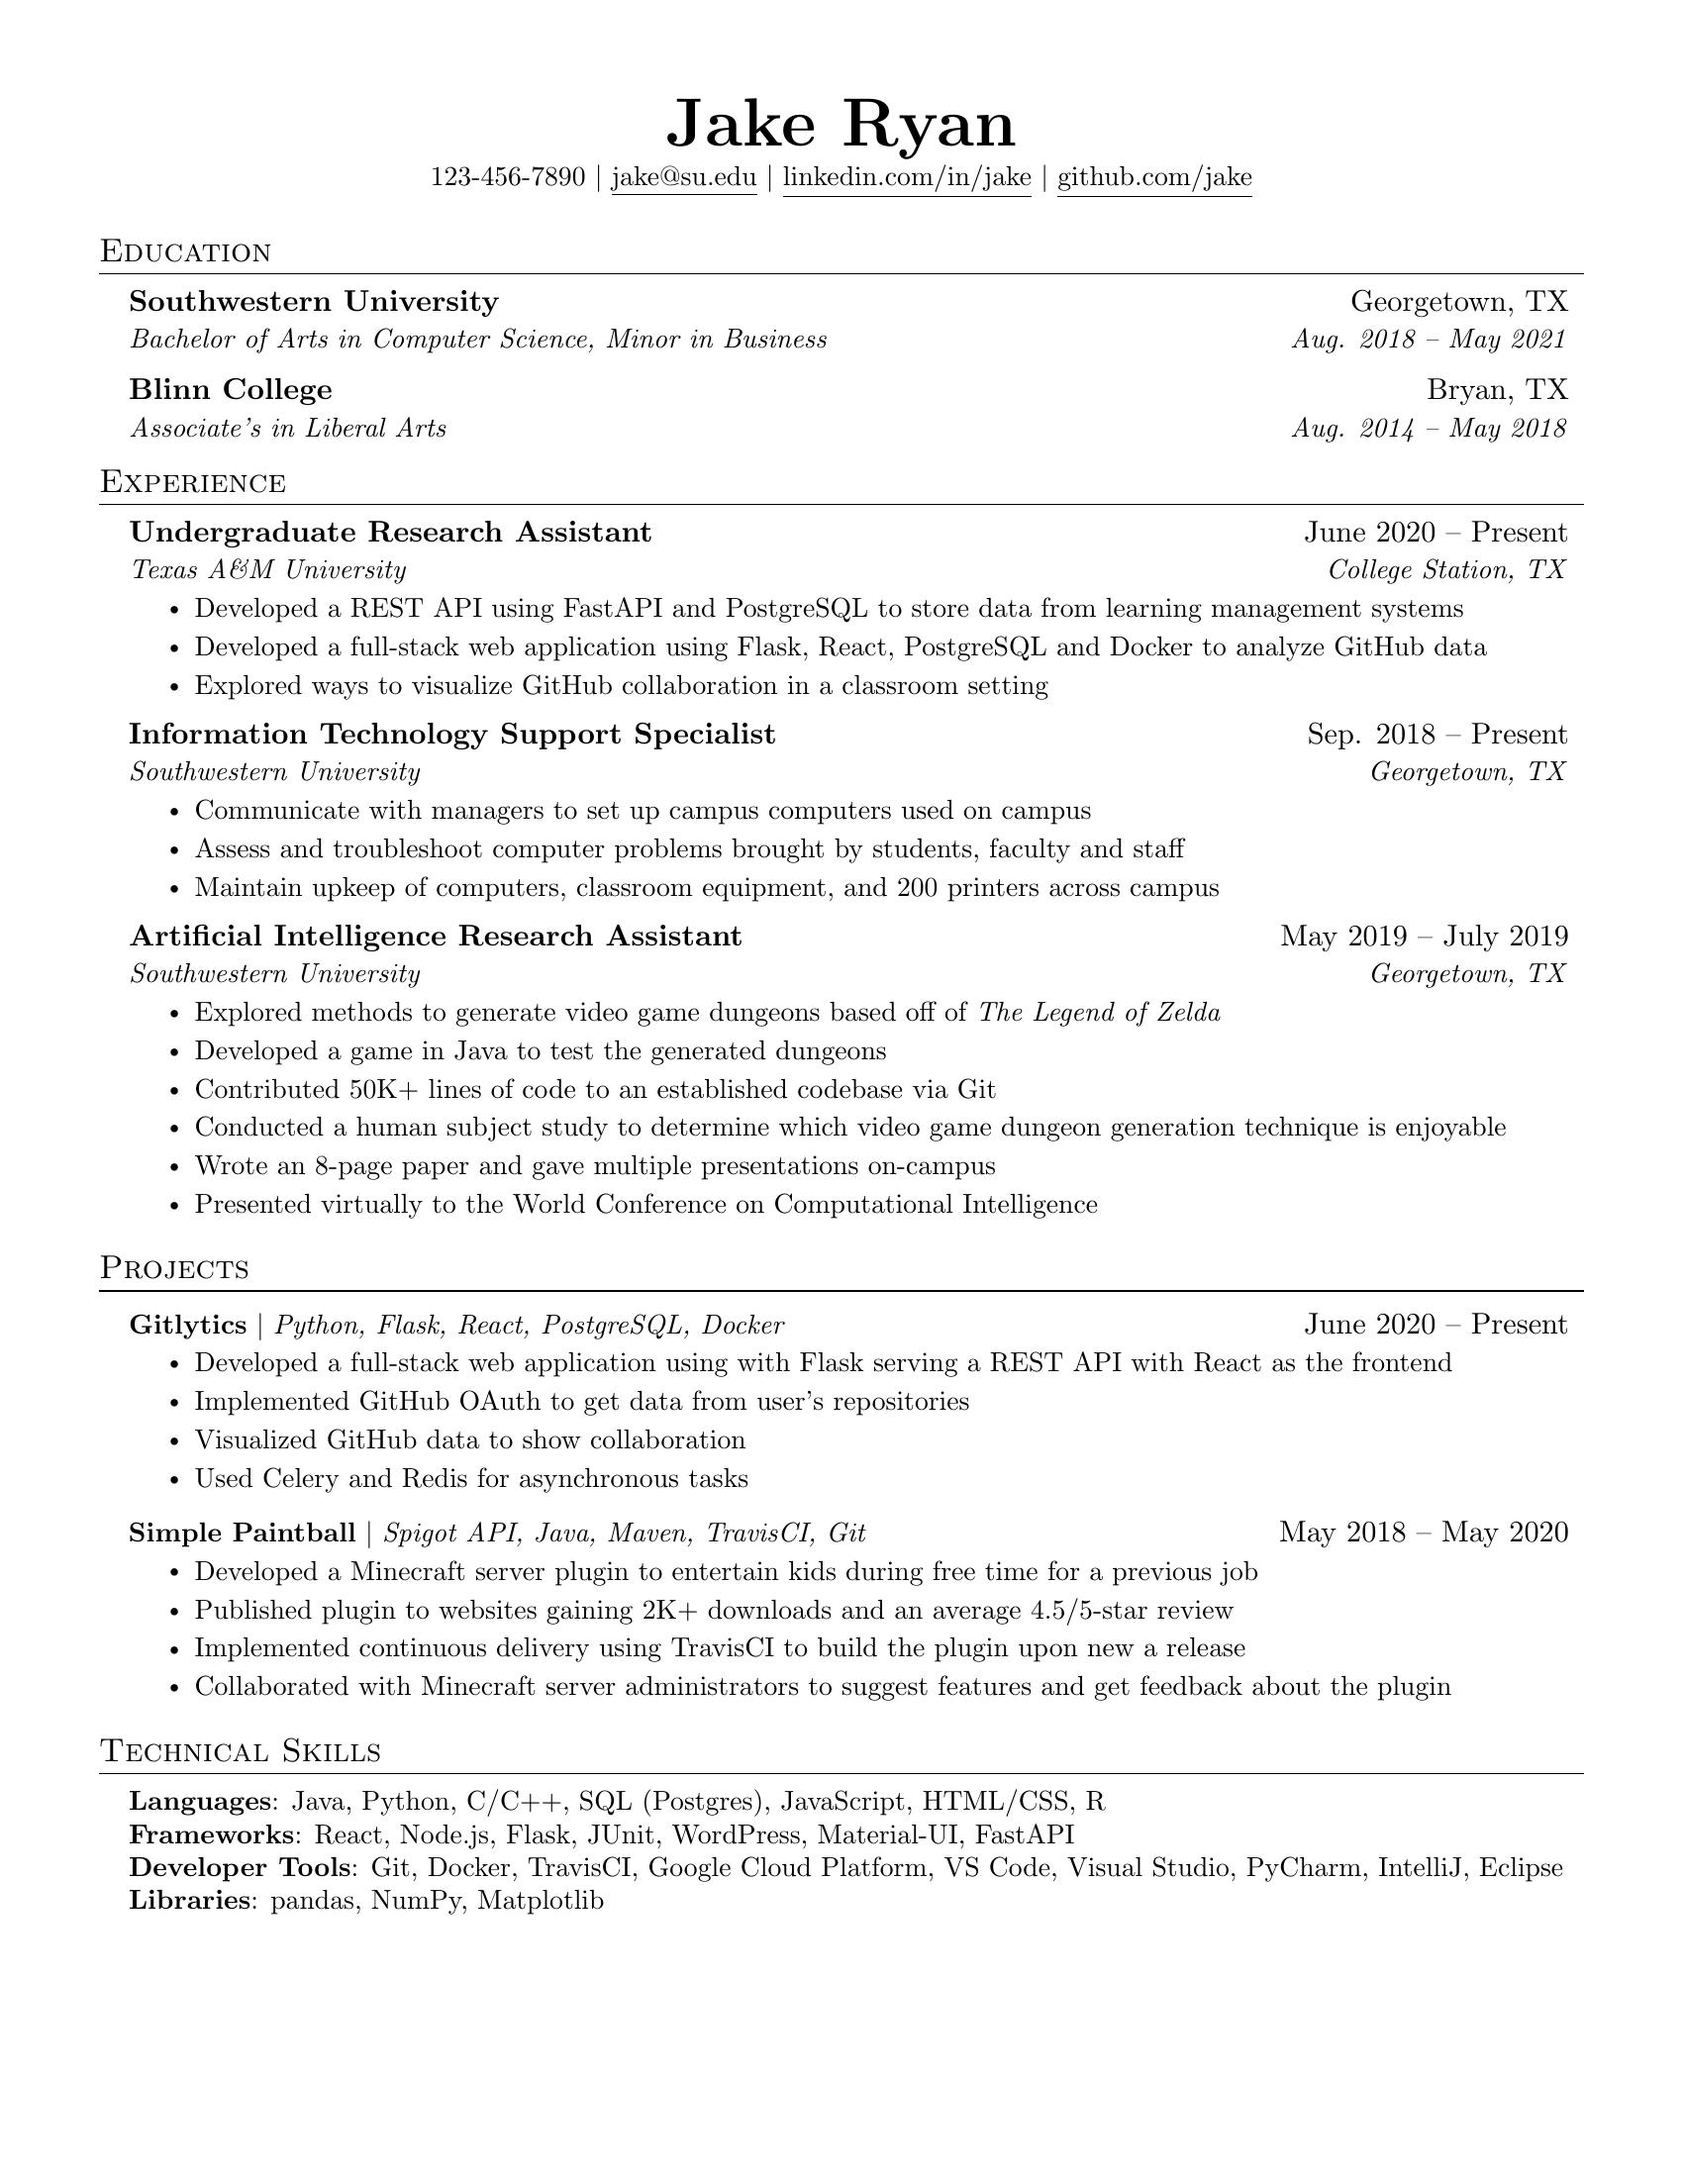
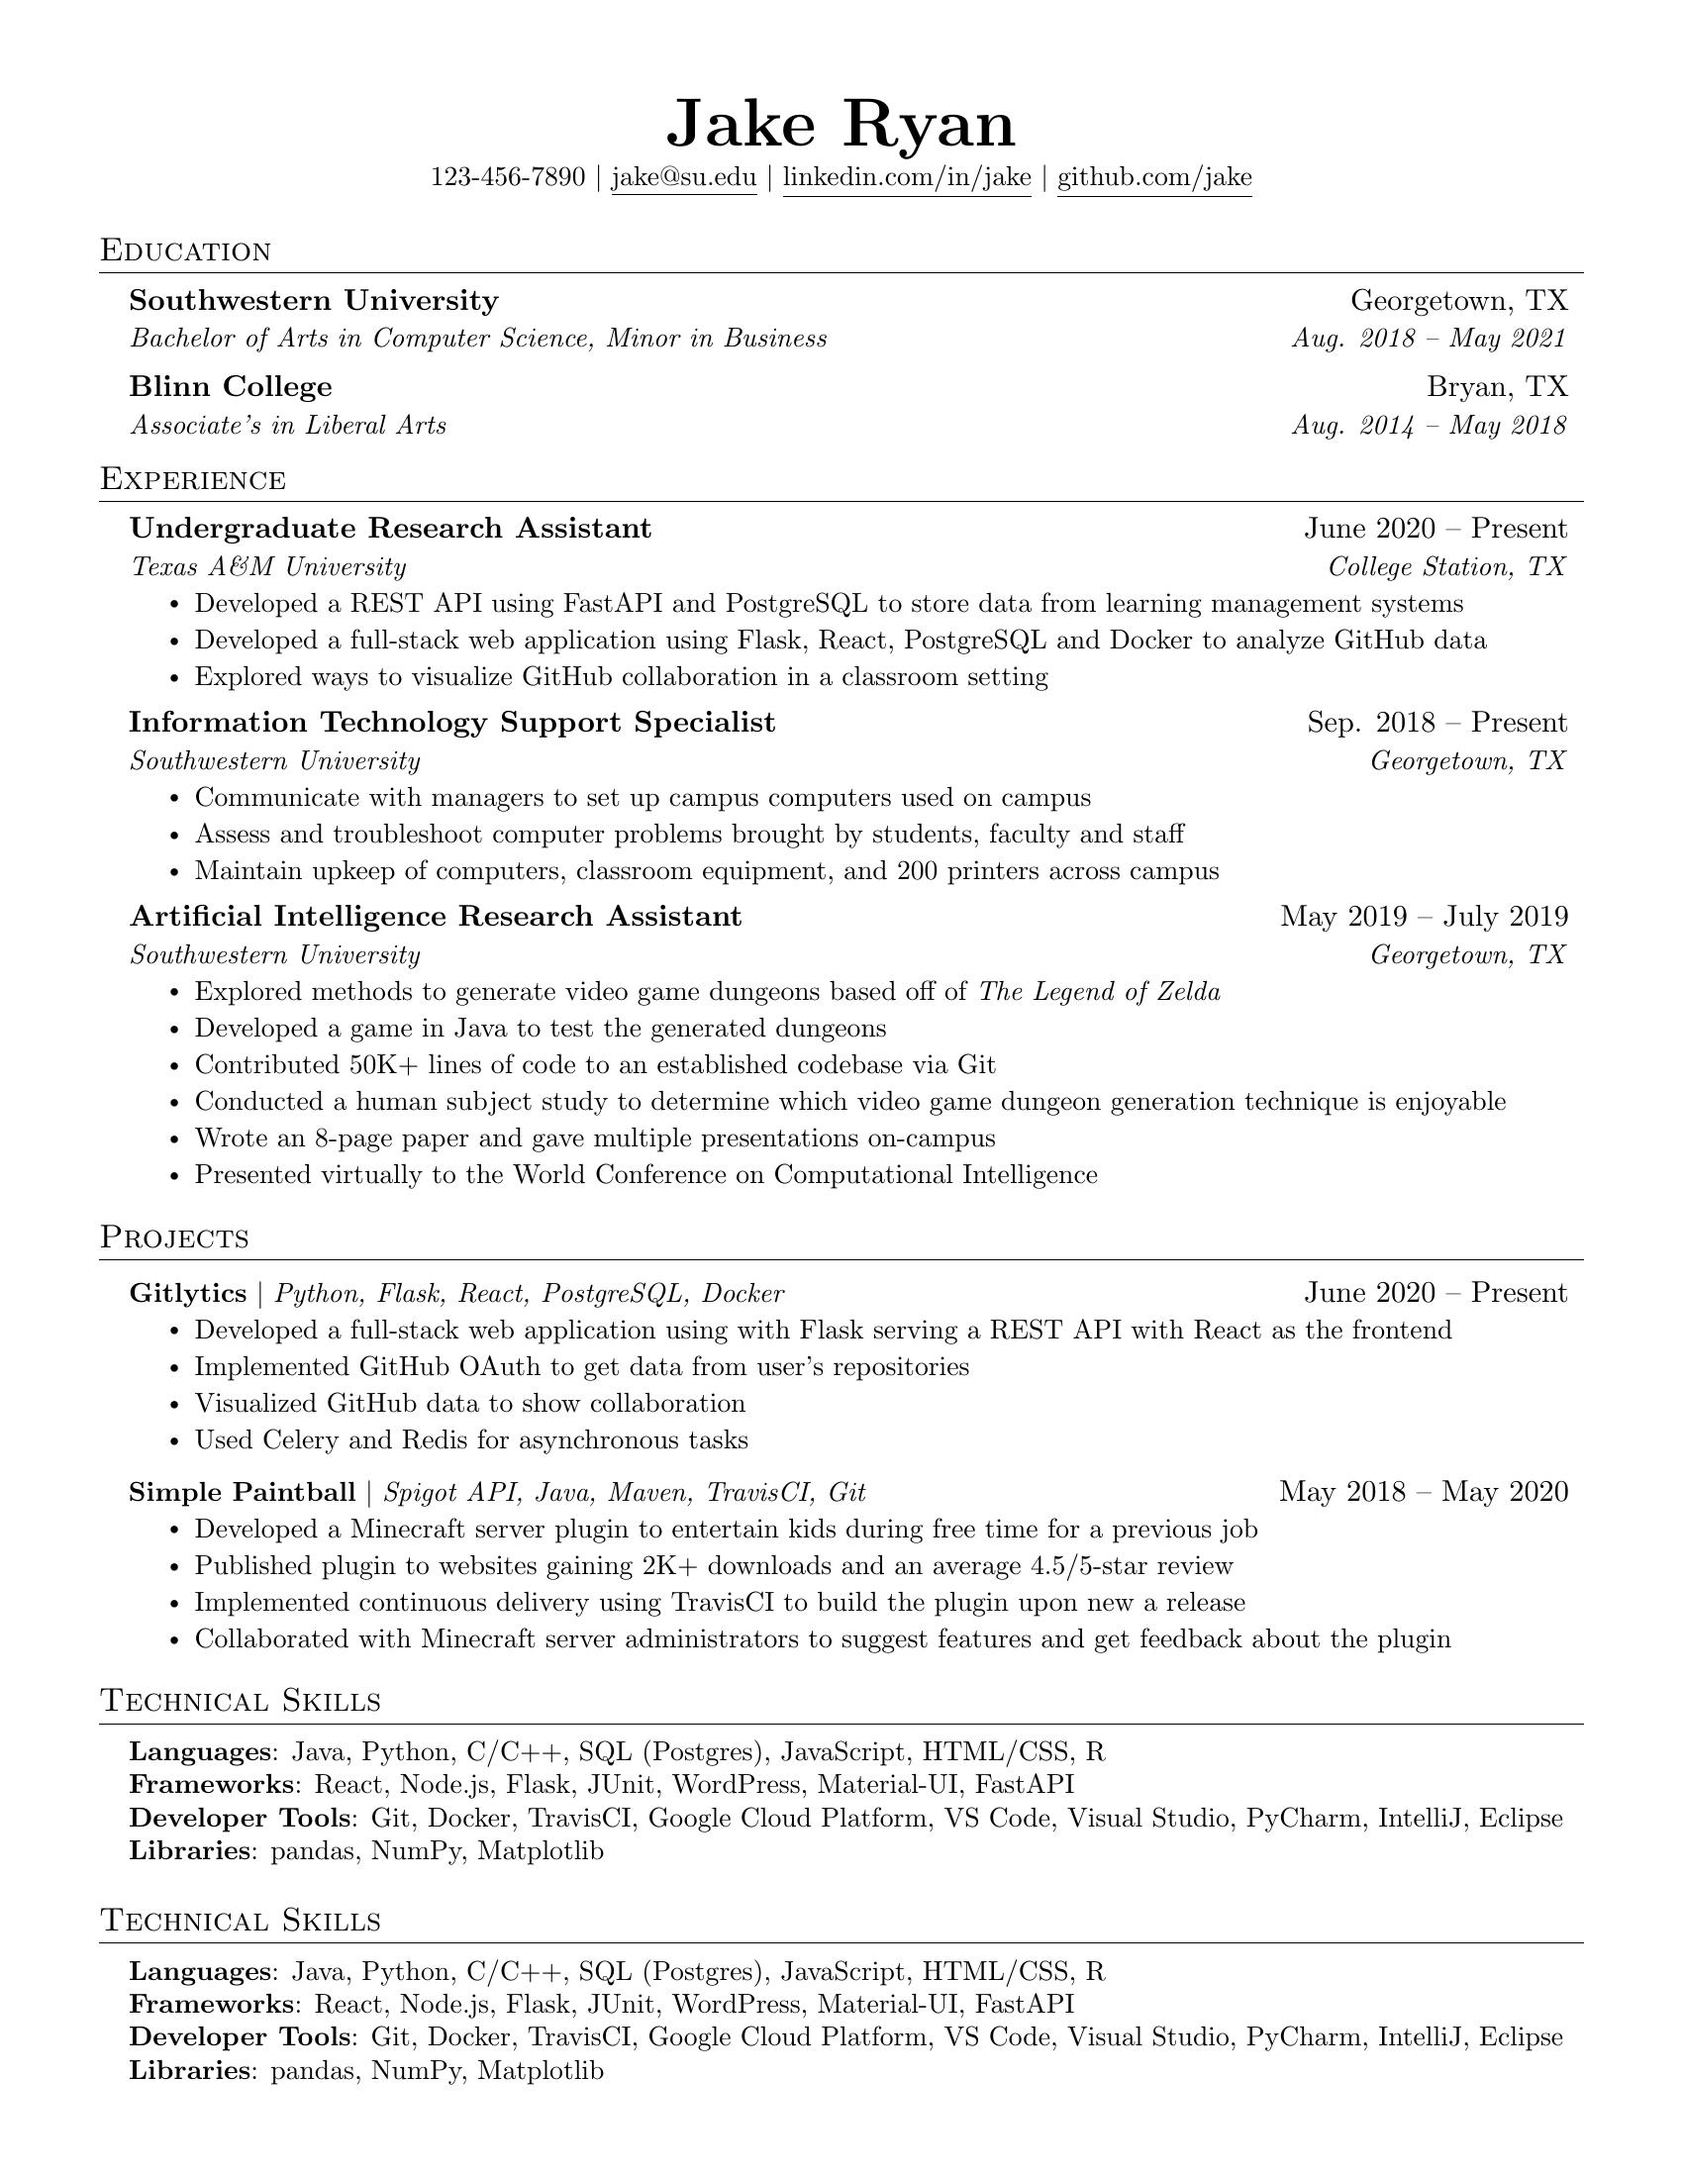
testing multiple pages

diff --git a/main.tex b/main.tex
@@ -212,6 +212,105 @@
      \textbf{Libraries}{: pandas, NumPy, Matplotlib}
     }}
  \end{itemize}
+%
+%-----------PROGRAMMING SKILLS-----------
+\section{Technical Skills}
+ \begin{itemize}[leftmargin=0.15in, label={}]
+    \small{\item{
+     \textbf{Languages}{: Java, Python, C/C++, SQL (Postgres), JavaScript, HTML/CSS, R} \\
+     \textbf{Frameworks}{: React, Node.js, Flask, JUnit, WordPress, Material-UI, FastAPI} \\
+     \textbf{Developer Tools}{: Git, Docker, TravisCI, Google Cloud Platform, VS Code, Visual Studio, PyCharm, IntelliJ, Eclipse} \\
+     \textbf{Libraries}{: pandas, NumPy, Matplotlib}
+    }}
+ \end{itemize}%
+%-----------PROGRAMMING SKILLS-----------
+\section{Technical Skills}
+ \begin{itemize}[leftmargin=0.15in, label={}]
+    \small{\item{
+     \textbf{Languages}{: Java, Python, C/C++, SQL (Postgres), JavaScript, HTML/CSS, R} \\
+     \textbf{Frameworks}{: React, Node.js, Flask, JUnit, WordPress, Material-UI, FastAPI} \\
+     \textbf{Developer Tools}{: Git, Docker, TravisCI, Google Cloud Platform, VS Code, Visual Studio, PyCharm, IntelliJ, Eclipse} \\
+     \textbf{Libraries}{: pandas, NumPy, Matplotlib}
+    }}
+ \end{itemize}
+%-----------PROGRAMMING SKILLS-----------
+\section{Technical Skills}
+ \begin{itemize}[leftmargin=0.15in, label={}]
+    \small{\item{
+     \textbf{Languages}{: Java, Python, C/C++, SQL (Postgres), JavaScript, HTML/CSS, R} \\
+     \textbf{Frameworks}{: React, Node.js, Flask, JUnit, WordPress, Material-UI, FastAPI} \\
+     \textbf{Developer Tools}{: Git, Docker, TravisCI, Google Cloud Platform, VS Code, Visual Studio, PyCharm, IntelliJ, Eclipse} \\
+     \textbf{Libraries}{: pandas, NumPy, Matplotlib}
+    }}
+ \end{itemize}
+
+ %-----------PROGRAMMING SKILLS-----------
+\section{Technical Skills}
+\begin{itemize}[leftmargin=0.15in, label={}]
+   \small{\item{
+    \textbf{Languages}{: Java, Python, C/C++, SQL (Postgres), JavaScript, HTML/CSS, R} \\
+    \textbf{Frameworks}{: React, Node.js, Flask, JUnit, WordPress, Material-UI, FastAPI} \\
+    \textbf{Developer Tools}{: Git, Docker, TravisCI, Google Cloud Platform, VS Code, Visual Studio, PyCharm, IntelliJ, Eclipse} \\
+    \textbf{Libraries}{: pandas, NumPy, Matplotlib}
+   }}
+\end{itemize}
+
+%-----------PROGRAMMING SKILLS-----------
+\section{Technical Skills}
+ \begin{itemize}[leftmargin=0.15in, label={}]
+    \small{\item{
+     \textbf{Languages}{: Java, Python, C/C++, SQL (Postgres), JavaScript, HTML/CSS, R} \\
+     \textbf{Frameworks}{: React, Node.js, Flask, JUnit, WordPress, Material-UI, FastAPI} \\
+     \textbf{Developer Tools}{: Git, Docker, TravisCI, Google Cloud Platform, VS Code, Visual Studio, PyCharm, IntelliJ, Eclipse} \\
+     \textbf{Libraries}{: pandas, NumPy, Matplotlib}
+    }}
+ \end{itemize}
+
+ %-----------PROGRAMMING SKILLS-----------
+\section{Technical Skills}
+\begin{itemize}[leftmargin=0.15in, label={}]
+   \small{\item{
+    \textbf{Languages}{: Java, Python, C/C++, SQL (Postgres), JavaScript, HTML/CSS, R} \\
+    \textbf{Frameworks}{: React, Node.js, Flask, JUnit, WordPress, Material-UI, FastAPI} \\
+    \textbf{Developer Tools}{: Git, Docker, TravisCI, Google Cloud Platform, VS Code, Visual Studio, PyCharm, IntelliJ, Eclipse} \\
+    \textbf{Libraries}{: pandas, NumPy, Matplotlib}
+   }}
+\end{itemize}
+
+%-----------PROGRAMMING SKILLS-----------
+\section{Technical Skills}
+ \begin{itemize}[leftmargin=0.15in, label={}]
+    \small{\item{
+     \textbf{Languages}{: Java, Python, C/C++, SQL (Postgres), JavaScript, HTML/CSS, R} \\
+     \textbf{Frameworks}{: React, Node.js, Flask, JUnit, WordPress, Material-UI, FastAPI} \\
+     \textbf{Developer Tools}{: Git, Docker, TravisCI, Google Cloud Platform, VS Code, Visual Studio, PyCharm, IntelliJ, Eclipse} \\
+     \textbf{Libraries}{: pandas, NumPy, Matplotlib}
+    }}
+ \end{itemize}
+
+ %-----------PROGRAMMING SKILLS-----------
+\section{Technical Skills}
+\begin{itemize}[leftmargin=0.15in, label={}]
+   \small{\item{
+    \textbf{Languages}{: Java, Python, C/C++, SQL (Postgres), JavaScript, HTML/CSS, R} \\
+    \textbf{Frameworks}{: React, Node.js, Flask, JUnit, WordPress, Material-UI, FastAPI} \\
+    \textbf{Developer Tools}{: Git, Docker, TravisCI, Google Cloud Platform, VS Code, Visual Studio, PyCharm, IntelliJ, Eclipse} \\
+    \textbf{Libraries}{: pandas, NumPy, Matplotlib}
+   }}
+\end{itemize}
+
+%-----------PROGRAMMING SKILLS-----------
+\section{Technical Skills}
+ \begin{itemize}[leftmargin=0.15in, label={}]
+    \small{\item{
+     \textbf{Languages}{: Java, Python, C/C++, SQL (Postgres), JavaScript, HTML/CSS, R} \\
+     \textbf{Frameworks}{: React, Node.js, Flask, JUnit, WordPress, Material-UI, FastAPI} \\
+     \textbf{Developer Tools}{: Git, Docker, TravisCI, Google Cloud Platform, VS Code, Visual Studio, PyCharm, IntelliJ, Eclipse} \\
+     \textbf{Libraries}{: pandas, NumPy, Matplotlib}
+    }}
+ \end{itemize}
+
+ 
 
 
 %-------------------------------------------

diff --git a/convert_resume_to_png.py b/convert_resume_to_png.py
@@ -4,9 +4,15 @@ from pdf2image import convert_from_path
 
 RESUME_FOLDER = './output'
 
+# Clear readme
+file = open("README.md","w")
+file.write('See below\n')
+file.close()
+
 # Store Pdf with convert_from_path function
 images = convert_from_path('main.pdf')
- 
+#  ![Resume](https://github.com/asultan123/Resume/blob/master/output/page0.jpg)
 for i in range(len(images)):
-      # Save pages as images in the pdf
     images[i].save(RESUME_FOLDER + '/page'+ str(i) +'.jpg', 'JPEG')
+    with open('./README.md', 'a') as md_file:
+        md_file.write(f'![Resume](https://github.com/asultan123/Resume/blob/master/output/page{i}.jpg)\n')

diff --git a/README.md b/README.md
@@ -1,1 +1,3 @@
+See below
 ![Resume](https://github.com/asultan123/Resume/blob/master/output/page0.jpg)
+![Resume](https://github.com/asultan123/Resume/blob/master/output/page1.jpg)
